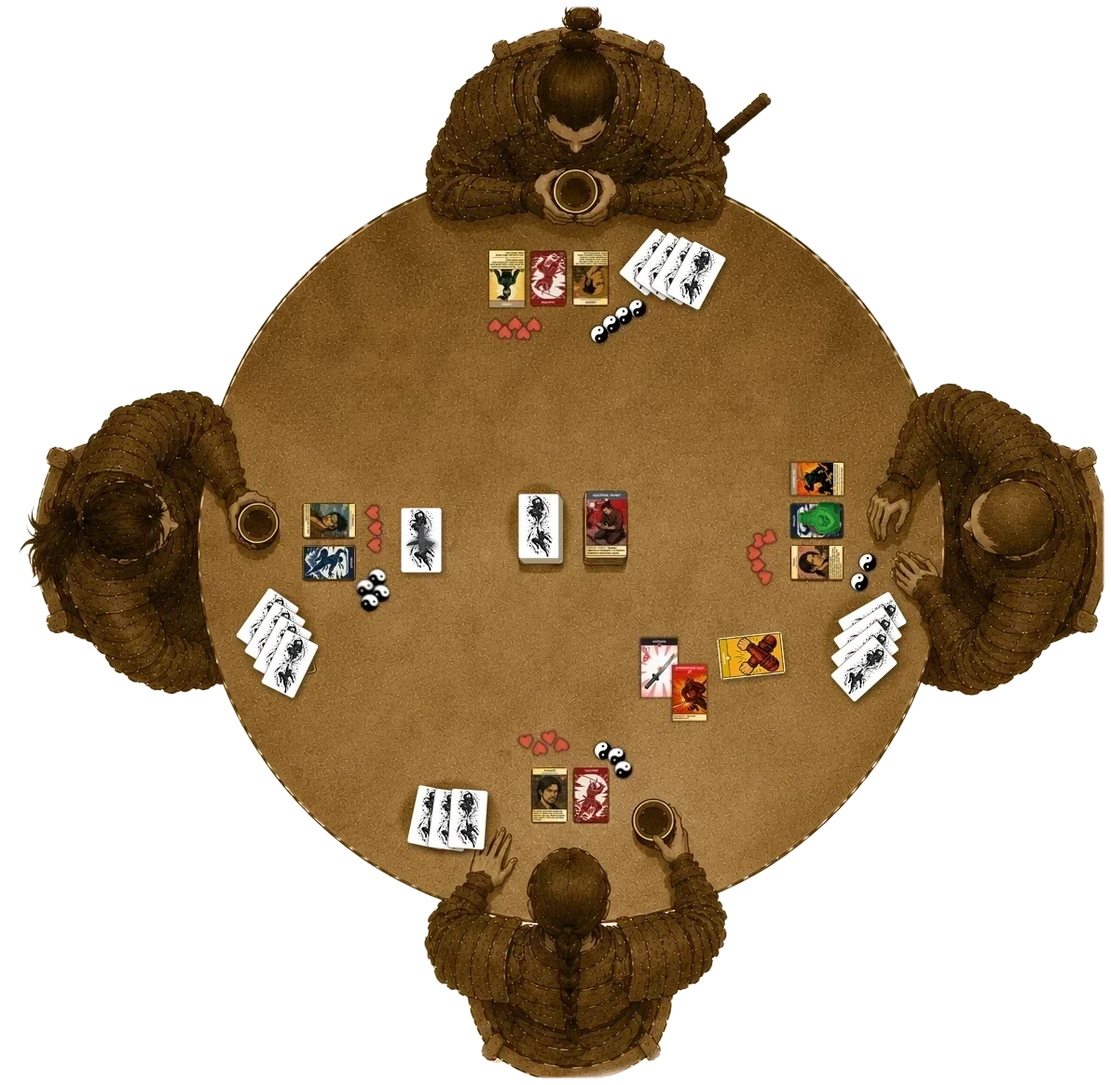
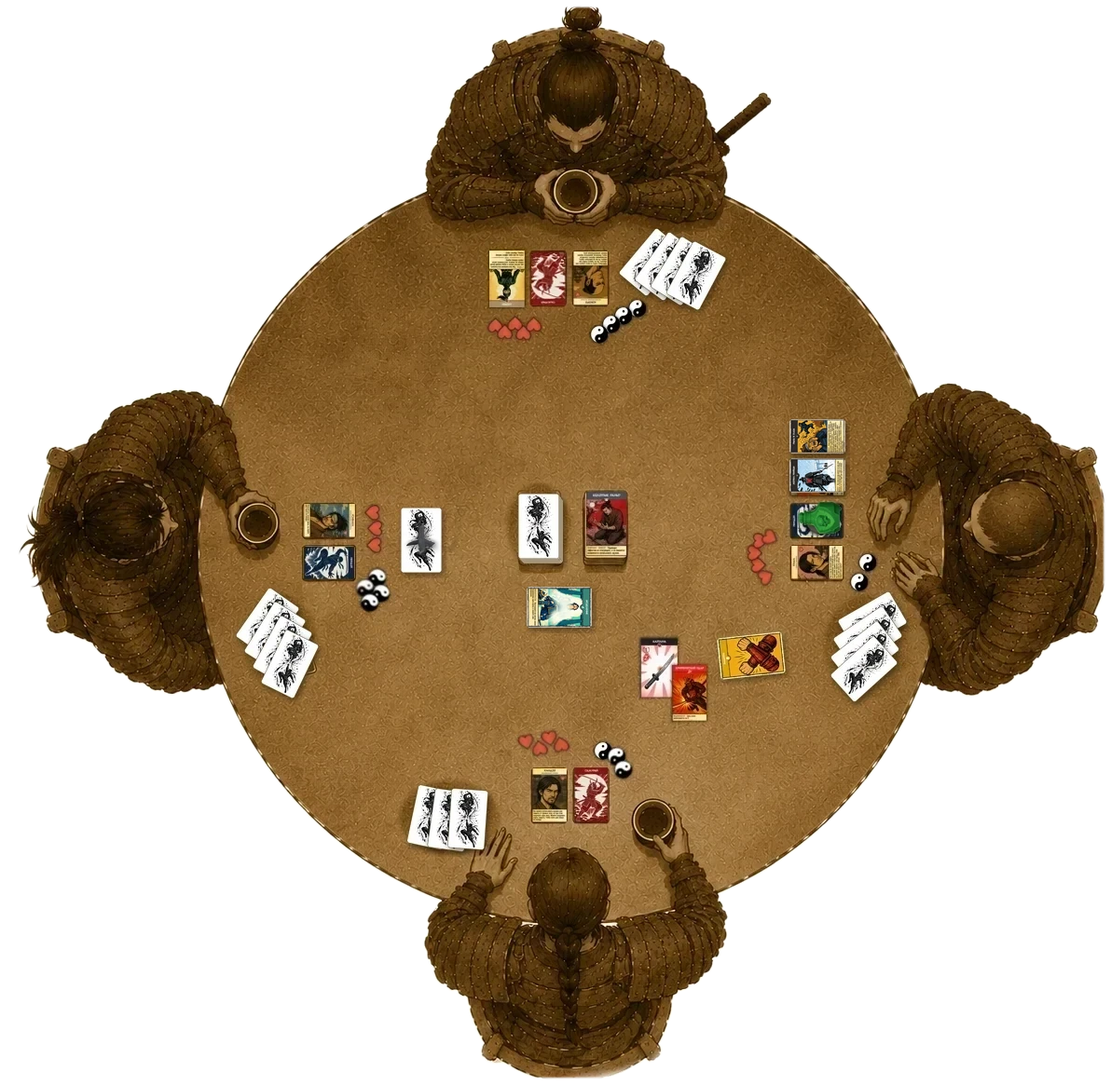
Стол: эффекты «Метка убийцы» и «Пыль в глаза», вмешательство союзника «Исцеление» с подписью; фигурки глав одной ширины 16 мм, знамя опущено; «Эффекты»: при смерти сбрасываются

Changed region(s): [[0.7139, 0.3708, 0.776, 0.4635], [0.4656, 0.5253, 0.5587, 0.5871]]

diff --git a/rules/rules.html b/rules/rules.html
@@ -134,7 +134,7 @@
           <h2 class="chapter-title">Стол<span class="kanji" aria-hidden="true">卓</span></h2>
 <p>Так выглядит стол в середине партии на четверых: у каждого игрока перед собой своя зона, посреди стола — общие стопки. Игроки сидят через одного, поэтому напротив — союзник, а по бокам — противники.</p>
 <figure class="table-figure">
-        <div class="table-pic"><img src="media/table.webp" alt="" width="1192" height="1165"><svg class="table-overlay" viewBox="0 0 1192 1165" xmlns="http://www.w3.org/2000/svg" aria-hidden="true"><defs><marker id="tf-arrow" viewBox="0 0 10 10" refX="9" refY="5" markerWidth="5" markerHeight="5" orient="auto-start-reverse"><path d="M0,0 L10,5 L0,10 z"/></marker><marker id="tf-arrow-big" viewBox="0 0 10 10" refX="8" refY="5" markerWidth="4" markerHeight="4" orient="auto-start-reverse"><path d="M0,0 L10,5 L0,10 z"/></marker></defs><path class="tf-flow" d="M 790 1125 C 930 1100 1020 950 1005 775"/><g class="tf-lines"><line x1="480" y1="300" x2="515" y2="300"/><line x1="598" y1="402" x2="593" y2="335"/><line x1="818" y1="357" x2="760" y2="315"/><line x1="471" y1="622" x2="458" y2="612"/><line x1="442" y1="468" x2="365" y2="532"/><line x1="521" y1="523" x2="560" y2="565"/><line x1="692" y1="513" x2="672" y2="530"/><line x1="815" y1="463" x2="855" y2="500"/><line x1="827" y1="545" x2="862" y2="552"/><line x1="813" y1="739" x2="812" y2="732"/><line x1="636" y1="715" x2="688" y2="712"/><line x1="476" y1="793" x2="565" y2="800"/><line x1="704" y1="812" x2="683" y2="812"/></g><g class="tf-labels"><g transform="translate(376,277)"><rect width="104" height="46" rx="8"/><text class="tf-txt" x="52.0" y="24.0">Стойка</text></g><g transform="translate(523,402)"><rect width="154" height="46" rx="8"/><text class="tf-txt" x="77.0" y="24.0">Карта роли</text></g><g transform="translate(810,357)"><rect width="79" height="46" rx="8"/><text class="tf-txt" x="39.5" y="24.0">Рука</text></g><g transform="translate(442,622)"><rect width="116" height="46" rx="8"/><text class="tf-txt" x="58.0" y="24.0">Ловушка</text></g><g transform="translate(406,422)"><rect width="129" height="46" rx="8"/><text class="tf-txt" x="64.5" y="24.0">Персонаж</text></g><g transform="translate(448,477)"><rect width="104" height="46" rx="8"/><text class="tf-txt" x="52.0" y="24.0">Колода</text></g><g transform="translate(674,467)"><rect width="92" height="46" rx="8"/><text class="tf-txt" x="46.0" y="24.0">Сброс</text></g><g transform="translate(732,417)"><rect width="116" height="46" rx="8"/><text class="tf-txt" x="58.0" y="24.0">Эффекты</text></g><g transform="translate(773,517)"><rect width="54" height="46" rx="8"/><text class="tf-txt" x="27.0" y="24.0">Яд</text></g><g transform="translate(763,739)"><rect width="104" height="46" rx="8"/><text class="tf-txt" x="52.0" y="24.0">Защита</text></g><g transform="translate(444,682)"><rect width="191" height="76" rx="8"/><text class="tf-txt" x="95.5" y="24.0">Атака: оружие</text><text class="tf-txt" x="95.5" y="54.0">+ модификатор</text></g><g transform="translate(384,767)"><rect width="92" height="46" rx="8"/><text class="tf-txt" x="46.0" y="24.0">Жизни</text></g><g transform="translate(704,789)"><rect width="191" height="46" rx="8"/><text class="tf-txt" x="95.5" y="24.0">Победные очки</text></g><g transform="translate(1027,937)"><rect width="116" height="46" rx="8"/><text class="tf-txt" x="58.0" y="24.0">Атакует</text></g></g><g class="tf-tags"><g transform="translate(802,127)"><rect width="116" height="46" rx="23"/><text x="58.0" y="24.0">Самурай</text></g><g transform="translate(1028,372)"><rect width="104" height="46" rx="23"/><text x="52.0" y="24.0">Ниндзя</text></g><g transform="translate(702,1037)"><rect width="116" height="46" rx="23"/><text x="58.0" y="24.0">Самурай</text></g><g transform="translate(88,377)"><rect width="104" height="46" rx="23"/><text x="52.0" y="24.0">Ниндзя</text></g></g></svg></div>
+        <div class="table-pic"><img src="media/table.webp" alt="" width="1192" height="1165"><svg class="table-overlay" viewBox="0 0 1192 1165" xmlns="http://www.w3.org/2000/svg" aria-hidden="true"><defs><marker id="tf-arrow" viewBox="0 0 10 10" refX="9" refY="5" markerWidth="5" markerHeight="5" orient="auto-start-reverse"><path d="M0,0 L10,5 L0,10 z"/></marker><marker id="tf-arrow-big" viewBox="0 0 10 10" refX="8" refY="5" markerWidth="4" markerHeight="4" orient="auto-start-reverse"><path d="M0,0 L10,5 L0,10 z"/></marker></defs><path class="tf-flow" d="M 790 1125 C 930 1100 1020 950 1005 775"/><g class="tf-lines"><line x1="480" y1="300" x2="515" y2="300"/><line x1="598" y1="402" x2="593" y2="335"/><line x1="818" y1="357" x2="760" y2="315"/><line x1="471" y1="622" x2="458" y2="612"/><line x1="442" y1="468" x2="365" y2="532"/><line x1="521" y1="523" x2="560" y2="565"/><line x1="692" y1="513" x2="672" y2="530"/><line x1="837" y1="453" x2="856" y2="462"/><line x1="652" y1="649" x2="637" y2="650"/><line x1="827" y1="545" x2="862" y2="552"/><line x1="813" y1="739" x2="812" y2="732"/><line x1="636" y1="717" x2="688" y2="714"/><line x1="476" y1="793" x2="565" y2="800"/><line x1="704" y1="812" x2="683" y2="812"/></g><g class="tf-labels"><g transform="translate(376,277)"><rect width="104" height="46" rx="8"/><text class="tf-txt" x="52.0" y="24.0">Стойка</text></g><g transform="translate(523,402)"><rect width="154" height="46" rx="8"/><text class="tf-txt" x="77.0" y="24.0">Карта роли</text></g><g transform="translate(810,357)"><rect width="79" height="46" rx="8"/><text class="tf-txt" x="39.5" y="24.0">Рука</text></g><g transform="translate(442,622)"><rect width="116" height="46" rx="8"/><text class="tf-txt" x="58.0" y="24.0">Ловушка</text></g><g transform="translate(406,422)"><rect width="129" height="46" rx="8"/><text class="tf-txt" x="64.5" y="24.0">Персонаж</text></g><g transform="translate(448,477)"><rect width="104" height="46" rx="8"/><text class="tf-txt" x="52.0" y="24.0">Колода</text></g><g transform="translate(674,467)"><rect width="92" height="46" rx="8"/><text class="tf-txt" x="46.0" y="24.0">Сброс</text></g><g transform="translate(732,407)"><rect width="116" height="46" rx="8"/><text class="tf-txt" x="58.0" y="24.0">Эффекты</text></g><g transform="translate(652,604)"><rect width="191" height="76" rx="8"/><text class="tf-txt" x="95.5" y="24.0">Вмешательство</text><text class="tf-txt" x="95.5" y="54.0">союзника</text></g><g transform="translate(773,517)"><rect width="54" height="46" rx="8"/><text class="tf-txt" x="27.0" y="24.0">Яд</text></g><g transform="translate(763,739)"><rect width="104" height="46" rx="8"/><text class="tf-txt" x="52.0" y="24.0">Защита</text></g><g transform="translate(444,684)"><rect width="191" height="76" rx="8"/><text class="tf-txt" x="95.5" y="24.0">Атака: оружие</text><text class="tf-txt" x="95.5" y="54.0">+ модификатор</text></g><g transform="translate(384,767)"><rect width="92" height="46" rx="8"/><text class="tf-txt" x="46.0" y="24.0">Жизни</text></g><g transform="translate(704,789)"><rect width="191" height="46" rx="8"/><text class="tf-txt" x="95.5" y="24.0">Победные очки</text></g><g transform="translate(1027,937)"><rect width="116" height="46" rx="8"/><text class="tf-txt" x="58.0" y="24.0">Атакует</text></g></g><g class="tf-tags"><g transform="translate(802,127)"><rect width="116" height="46" rx="23"/><text x="58.0" y="24.0">Самурай</text></g><g transform="translate(1028,372)"><rect width="104" height="46" rx="23"/><text x="52.0" y="24.0">Ниндзя</text></g><g transform="translate(702,1037)"><rect width="116" height="46" rx="23"/><text x="58.0" y="24.0">Самурай</text></g><g transform="translate(88,377)"><rect width="104" height="46" rx="23"/><text x="52.0" y="24.0">Ниндзя</text></g></g></svg></div>
         <figcaption>Стол на четверых: самурай — ниндзя — самурай — ниндзя.</figcaption>
       </figure>
 <aside class="note">За большим столом — на восьмерых — колоду и сброс удобно разделить на две стопки и поставить с разных сторон, чтобы каждому было легко дотянуться: колода перетасована, а порядок карт в сбросе не важен.</aside>
@@ -216,9 +216,9 @@
         </aside>
 <p>В свой ход игрок может выставить перед собой одну ловушку: карта кладётся рубашкой вверх, сверху ставится фигурка ловушки <img class="mk fig-inline trap" src="media/fig/trap.webp" alt="">. В свой ход активную ловушку можно менять на другую из руки, забирая прежнюю обратно.</p>
 <p>При атаке по вам ловушка срабатывает всегда, если вы не защищаетесь, — кроме атак метательным оружием: они ловушку не активируют. Если от неметательной атаки вы защищаетесь, срабатывать ловушке или нет — решаете вы. Карты просветления переворачивают ловушку картинкой вверх, фигурка остаётся сверху.</p>
-<div class="fig-row"><div class="fig-text" style="padding-right:24mm">
+<div class="fig-row"><div class="fig-text" style="padding-right:23mm">
 <aside class="note">Если при просветлении, воровстве или активации под фигуркой окажется не карта ловушки, игрок сразу умирает, отдав победное очко инициатору. Ловушка срабатывает, даже если атака летальна.</aside>
-</div><img class="chapter-fig" src="media/fig/ink/trap-fig.webp" style="width:17mm;right:4mm;bottom:0mm" alt=""></div>
+</div><img class="chapter-fig" src="media/fig/ink/trap-fig.webp" style="width:16mm;right:4mm;bottom:0mm" alt=""></div>
         </div>
       </section>
       <section class="chapter" id="stances" style="--bg:url(media/bg/stances.webp)">
@@ -239,7 +239,7 @@
         </aside>
 <p>Эффекты — карты, которые накладываются на любого живого игрока и действуют до его смерти; чаще всего они вредны. Карта эффекта кладётся в открытую справа от карты персонажа. Эффектов может быть сколько угодно, но не два одноимённых.</p>
 <p>Эффекты можно воровать, перемещать и снимать особыми картами — палочками благовоний.</p>
-<aside class="note">При смерти игрок теряет все эффекты и сбрасывает их карты.</aside>
+<aside class="note">При смерти игрок сбрасывает все эффекты.</aside>
         </div>
       </section>
       </div>
@@ -254,7 +254,7 @@
           <div class="side-cards fan n2"><div class="card-embed" style="--k:-0.5;--i:0"><img src="media/cards/116.webp" alt=""></div><div class="card-embed" style="--k:0.5;--i:1"><img src="media/cards/64.webp" alt=""></div></div>
         </aside>
 <p>В игре присутствует возможность отравлять игроков ядом путём совершения отравленных атак оружием либо в результате действия других карт. Карты, обладающие эффектом отравления ядом, помечены специальным значком. Игрок, отравленный ядом, помечается фигуркой яда <img class="mk fig-inline poison" src="media/fig/poison.webp" alt=""> поверх своей карты роли. Яд не тупит клинок: на силу атаки отравленного он не влияет. Снять отравление можно особыми картами; при смерти оно пропадает само.</p>
-<div class="fig-row"><div class="fig-text" style="padding-right:28mm">
+<div class="fig-row"><div class="fig-text" style="padding-right:22mm">
 <div class="order-list">
         <h4>Два недуга отравленного</h4>
         <ol>
@@ -262,7 +262,7 @@
           <li>Отравленная атака или отравленное действие по уже отравленному игроку наносит на одну рану больше.</li>
         </ol>
       </div>
-</div><img class="chapter-fig" src="media/fig/ink/poison-fig.webp" style="width:22mm;right:3mm;bottom:-6mm" alt=""></div>
+</div><img class="chapter-fig" src="media/fig/ink/poison-fig.webp" style="width:16mm;right:3mm;bottom:-6mm" alt=""></div>
         </div>
       </section>
       <section class="chapter" id="auras" style="--bg:url(media/bg/auras.webp)">
@@ -272,10 +272,10 @@
           <div class="side-cards fan n2"><div class="card-embed" style="--k:-0.5;--i:0"><img src="media/cards/1209.webp" alt=""></div><div class="card-embed" style="--k:0.5;--i:1"><img src="media/cards/1206.webp" alt=""></div></div>
         </aside>
 <p>Командные ауры — мощные карты, меняющие правила в пользу команды того, кто их сыграл. Эффект ауры действует на всех за столом — и на союзников, и на соперников, — поэтому за активными аурами надо следить и пересчитывать под них свои ходы.</p>
-<div class="fig-row"><div class="fig-text" style="padding-right:16mm">
+<div class="fig-row"><div class="fig-text" style="padding-right:19mm">
 <p>Ауру играет любой игрок в свой ход: карта кладётся перед персонажем в открытую, сверху ставится фигурка знамени <img class="mk fig-inline" src="media/fig/banner.webp" alt="">. У одного игрока не больше одной ауры; новая заменяет прежнюю, и та возвращается в руку, как стойка и ловушка. Ауры разных игроков одной команды не отменяют друг друга, а складываются.</p>
 <p>Аура остаётся в игре, пока её владелец жив и не заменил её другой; при его смерти она уходит в сброс вместе с остальными его открытыми картами.</p>
-</div><img class="chapter-fig" src="media/fig/ink/banner-fig.webp" style="width:13mm;right:0mm;bottom:0mm" alt=""></div>
+</div><img class="chapter-fig" src="media/fig/ink/banner-fig.webp" style="width:16mm;right:0mm;bottom:-12mm" alt=""></div>
         </div>
       </section>
       </div>

diff --git a/rules/rules-en.html b/rules/rules-en.html
@@ -134,7 +134,7 @@
           <h2 class="chapter-title">The Table<span class="kanji" aria-hidden="true">卓</span></h2>
 <p>This is what a four-player table looks like mid-game: every player has their own area in front of them, and the shared piles sit in the middle. Seats alternate, so the player opposite is your ally and the players on either side are enemies.</p>
 <figure class="table-figure">
-        <div class="table-pic"><img src="media/table.webp" alt="" width="1192" height="1165"><svg class="table-overlay" viewBox="0 0 1192 1165" xmlns="http://www.w3.org/2000/svg" aria-hidden="true"><defs><marker id="tf-arrow" viewBox="0 0 10 10" refX="9" refY="5" markerWidth="5" markerHeight="5" orient="auto-start-reverse"><path d="M0,0 L10,5 L0,10 z"/></marker><marker id="tf-arrow-big" viewBox="0 0 10 10" refX="8" refY="5" markerWidth="4" markerHeight="4" orient="auto-start-reverse"><path d="M0,0 L10,5 L0,10 z"/></marker></defs><path class="tf-flow" d="M 790 1125 C 930 1100 1020 950 1005 775"/><g class="tf-lines"><line x1="480" y1="300" x2="515" y2="300"/><line x1="598" y1="402" x2="593" y2="335"/><line x1="818" y1="357" x2="760" y2="315"/><line x1="471" y1="622" x2="458" y2="612"/><line x1="442" y1="468" x2="365" y2="532"/><line x1="521" y1="523" x2="560" y2="565"/><line x1="692" y1="513" x2="672" y2="530"/><line x1="815" y1="463" x2="855" y2="500"/><line x1="852" y1="550" x2="862" y2="552"/><line x1="813" y1="739" x2="812" y2="732"/><line x1="642" y1="715" x2="688" y2="712"/><line x1="470" y1="793" x2="565" y2="800"/><line x1="698" y1="812" x2="683" y2="812"/></g><g class="tf-labels"><g transform="translate(376,277)"><rect width="104" height="46" rx="8"/><text class="tf-txt" x="52.0" y="24.0">Stance</text></g><g transform="translate(530,402)"><rect width="141" height="46" rx="8"/><text class="tf-txt" x="70.5" y="24.0">Role card</text></g><g transform="translate(810,357)"><rect width="79" height="46" rx="8"/><text class="tf-txt" x="39.5" y="24.0">Hand</text></g><g transform="translate(460,622)"><rect width="79" height="46" rx="8"/><text class="tf-txt" x="39.5" y="24.0">Trap</text></g><g transform="translate(400,422)"><rect width="141" height="46" rx="8"/><text class="tf-txt" x="70.5" y="24.0">Character</text></g><g transform="translate(460,477)"><rect width="79" height="46" rx="8"/><text class="tf-txt" x="39.5" y="24.0">Deck</text></g><g transform="translate(662,467)"><rect width="116" height="46" rx="8"/><text class="tf-txt" x="58.0" y="24.0">Discard</text></g><g transform="translate(732,417)"><rect width="116" height="46" rx="8"/><text class="tf-txt" x="58.0" y="24.0">Effects</text></g><g transform="translate(748,517)"><rect width="104" height="46" rx="8"/><text class="tf-txt" x="52.0" y="24.0">Poison</text></g><g transform="translate(757,739)"><rect width="116" height="46" rx="8"/><text class="tf-txt" x="58.0" y="24.0">Defense</text></g><g transform="translate(438,682)"><rect width="203" height="76" rx="8"/><text class="tf-txt" x="101.5" y="24.0">Attack: weapon</text><text class="tf-txt" x="101.5" y="54.0">+ modifier</text></g><g transform="translate(390,767)"><rect width="79" height="46" rx="8"/><text class="tf-txt" x="39.5" y="24.0">Life</text></g><g transform="translate(698,789)"><rect width="203" height="46" rx="8"/><text class="tf-txt" x="101.5" y="24.0">Victory points</text></g><g transform="translate(1027,937)"><rect width="116" height="46" rx="8"/><text class="tf-txt" x="58.0" y="24.0">Attacks</text></g></g><g class="tf-tags"><g transform="translate(802,127)"><rect width="116" height="46" rx="23"/><text x="58.0" y="24.0">Samurai</text></g><g transform="translate(1034,372)"><rect width="92" height="46" rx="23"/><text x="46.0" y="24.0">Ninja</text></g><g transform="translate(702,1037)"><rect width="116" height="46" rx="23"/><text x="58.0" y="24.0">Samurai</text></g><g transform="translate(94,377)"><rect width="92" height="46" rx="23"/><text x="46.0" y="24.0">Ninja</text></g></g></svg></div>
+        <div class="table-pic"><img src="media/table.webp" alt="" width="1192" height="1165"><svg class="table-overlay" viewBox="0 0 1192 1165" xmlns="http://www.w3.org/2000/svg" aria-hidden="true"><defs><marker id="tf-arrow" viewBox="0 0 10 10" refX="9" refY="5" markerWidth="5" markerHeight="5" orient="auto-start-reverse"><path d="M0,0 L10,5 L0,10 z"/></marker><marker id="tf-arrow-big" viewBox="0 0 10 10" refX="8" refY="5" markerWidth="4" markerHeight="4" orient="auto-start-reverse"><path d="M0,0 L10,5 L0,10 z"/></marker></defs><path class="tf-flow" d="M 790 1125 C 930 1100 1020 950 1005 775"/><g class="tf-lines"><line x1="480" y1="300" x2="515" y2="300"/><line x1="598" y1="402" x2="593" y2="335"/><line x1="818" y1="357" x2="760" y2="315"/><line x1="471" y1="622" x2="458" y2="612"/><line x1="442" y1="468" x2="365" y2="532"/><line x1="521" y1="523" x2="560" y2="565"/><line x1="692" y1="513" x2="672" y2="530"/><line x1="837" y1="453" x2="856" y2="462"/><line x1="658" y1="648" x2="637" y2="650"/><line x1="852" y1="550" x2="862" y2="552"/><line x1="813" y1="739" x2="812" y2="732"/><line x1="642" y1="717" x2="688" y2="714"/><line x1="470" y1="793" x2="565" y2="800"/><line x1="698" y1="812" x2="683" y2="812"/></g><g class="tf-labels"><g transform="translate(376,277)"><rect width="104" height="46" rx="8"/><text class="tf-txt" x="52.0" y="24.0">Stance</text></g><g transform="translate(530,402)"><rect width="141" height="46" rx="8"/><text class="tf-txt" x="70.5" y="24.0">Role card</text></g><g transform="translate(810,357)"><rect width="79" height="46" rx="8"/><text class="tf-txt" x="39.5" y="24.0">Hand</text></g><g transform="translate(460,622)"><rect width="79" height="46" rx="8"/><text class="tf-txt" x="39.5" y="24.0">Trap</text></g><g transform="translate(400,422)"><rect width="141" height="46" rx="8"/><text class="tf-txt" x="70.5" y="24.0">Character</text></g><g transform="translate(460,477)"><rect width="79" height="46" rx="8"/><text class="tf-txt" x="39.5" y="24.0">Deck</text></g><g transform="translate(662,467)"><rect width="116" height="46" rx="8"/><text class="tf-txt" x="58.0" y="24.0">Discard</text></g><g transform="translate(732,407)"><rect width="116" height="46" rx="8"/><text class="tf-txt" x="58.0" y="24.0">Effects</text></g><g transform="translate(658,604)"><rect width="179" height="76" rx="8"/><text class="tf-txt" x="89.5" y="24.0">Ally's</text><text class="tf-txt" x="89.5" y="54.0">intervention</text></g><g transform="translate(748,517)"><rect width="104" height="46" rx="8"/><text class="tf-txt" x="52.0" y="24.0">Poison</text></g><g transform="translate(757,739)"><rect width="116" height="46" rx="8"/><text class="tf-txt" x="58.0" y="24.0">Defense</text></g><g transform="translate(438,684)"><rect width="203" height="76" rx="8"/><text class="tf-txt" x="101.5" y="24.0">Attack: weapon</text><text class="tf-txt" x="101.5" y="54.0">+ modifier</text></g><g transform="translate(390,767)"><rect width="79" height="46" rx="8"/><text class="tf-txt" x="39.5" y="24.0">Life</text></g><g transform="translate(698,789)"><rect width="203" height="46" rx="8"/><text class="tf-txt" x="101.5" y="24.0">Victory points</text></g><g transform="translate(1027,937)"><rect width="116" height="46" rx="8"/><text class="tf-txt" x="58.0" y="24.0">Attacks</text></g></g><g class="tf-tags"><g transform="translate(802,127)"><rect width="116" height="46" rx="23"/><text x="58.0" y="24.0">Samurai</text></g><g transform="translate(1034,372)"><rect width="92" height="46" rx="23"/><text x="46.0" y="24.0">Ninja</text></g><g transform="translate(702,1037)"><rect width="116" height="46" rx="23"/><text x="58.0" y="24.0">Samurai</text></g><g transform="translate(94,377)"><rect width="92" height="46" rx="23"/><text x="46.0" y="24.0">Ninja</text></g></g></svg></div>
         <figcaption>A table for four: samurai — ninja — samurai — ninja.</figcaption>
       </figure>
 <aside class="note">At a big table — eight players — it is convenient to split the deck and the discard pile in two and place them on opposite sides so that everyone can reach: the deck is shuffled, and the order of cards in the discard pile does not matter.</aside>
@@ -216,9 +216,9 @@
         </aside>
 <p>On your turn you may set one Trap in front of yourself: the card is placed face down with the trap figurine <img class="mk fig-inline trap" src="media/fig/trap.webp" alt=""> on top of it. On your turn the active Trap may be swapped for another from your hand, taking the old one back.</p>
 <p>When you are attacked, the Trap always triggers if you do not defend — except against thrown weapons, which never trigger a Trap. If you defend against a non-thrown attack, whether the Trap triggers is up to you. Revealing cards turn the Trap face up; the figurine stays on it.</p>
-<div class="fig-row"><div class="fig-text" style="padding-right:24mm">
+<div class="fig-row"><div class="fig-text" style="padding-right:23mm">
 <aside class="note">If revealing, stealing or triggering shows that the card under the figurine is not a Trap card, that player dies at once and hands a victory point to the initiator. A Trap resolves even if the attack was lethal.</aside>
-</div><img class="chapter-fig" src="media/fig/ink/trap-fig.webp" style="width:17mm;right:4mm;bottom:0mm" alt=""></div>
+</div><img class="chapter-fig" src="media/fig/ink/trap-fig.webp" style="width:16mm;right:4mm;bottom:0mm" alt=""></div>
         </div>
       </section>
       <section class="chapter" id="stances" style="--bg:url(media/bg/stances.webp)">
@@ -239,7 +239,7 @@
         </aside>
 <p>Effects are cards placed on any living player that last until that player dies; most of them are harmful. An Effect card is placed face up to the right of the character card. A player may hold any number of Effects, but not two of the same name.</p>
 <p>Effects can be stolen, moved or removed with special incense-stick cards.</p>
-<aside class="note">On death a player loses every Effect and discards those cards.</aside>
+<aside class="note">On death a player discards all their Effects.</aside>
         </div>
       </section>
       </div>
@@ -254,7 +254,7 @@
           <div class="side-cards fan n2"><div class="card-embed" style="--k:-0.5;--i:0"><img src="media/cards/116-en.webp" alt=""></div><div class="card-embed" style="--k:0.5;--i:1"><img src="media/cards/64-en.webp" alt=""></div></div>
         </aside>
 <p>Players can be poisoned, either by making poisoned weapon attacks or through the action of other cards. Cards that carry poison are marked with a special icon. A poisoned player is marked with the poison figurine <img class="mk fig-inline poison" src="media/fig/poison.webp" alt=""> placed on top of their role card. Poison does not blunt the blade: it has no effect on the poisoned player's attack power. Poison can be cured with special cards, and it wears off by itself on death.</p>
-<div class="fig-row"><div class="fig-text" style="padding-right:28mm">
+<div class="fig-row"><div class="fig-text" style="padding-right:22mm">
 <div class="order-list">
         <h4>The two afflictions of the poisoned</h4>
         <ol>
@@ -262,7 +262,7 @@
           <li>A poisoned attack or poisoned action against an already poisoned player deals one extra wound.</li>
         </ol>
       </div>
-</div><img class="chapter-fig" src="media/fig/ink/poison-fig.webp" style="width:22mm;right:3mm;bottom:-6mm" alt=""></div>
+</div><img class="chapter-fig" src="media/fig/ink/poison-fig.webp" style="width:16mm;right:3mm;bottom:-6mm" alt=""></div>
         </div>
       </section>
       <section class="chapter" id="auras" style="--bg:url(media/bg/auras.webp)">
@@ -272,10 +272,10 @@
           <div class="side-cards fan n2"><div class="card-embed" style="--k:-0.5;--i:0"><img src="media/cards/1209-en.webp" alt=""></div><div class="card-embed" style="--k:0.5;--i:1"><img src="media/cards/1206-en.webp" alt=""></div></div>
         </aside>
 <p>Team Auras are powerful cards that bend the rules in favour of the team that played them. An Aura's effect reaches everyone at the table — allies and opponents alike — so active Auras have to be watched, and your own turns recalculated around them.</p>
-<div class="fig-row"><div class="fig-text" style="padding-right:16mm">
+<div class="fig-row"><div class="fig-text" style="padding-right:19mm">
 <p>Any player may play an Aura on their turn: the card goes face up in front of the character, with the banner figurine <img class="mk fig-inline" src="media/fig/banner.webp" alt=""> on top. A player holds one Aura at most; a new one replaces the old, which returns to hand like a Stance or a Trap. Auras of different players on the same team do not cancel one another — they stack.</p>
 <p>An Aura stays in play as long as its owner is alive and has not replaced it; when the owner dies it is discarded with the rest of their face-up cards.</p>
-</div><img class="chapter-fig" src="media/fig/ink/banner-fig.webp" style="width:13mm;right:0mm;bottom:0mm" alt=""></div>
+</div><img class="chapter-fig" src="media/fig/ink/banner-fig.webp" style="width:16mm;right:0mm;bottom:-12mm" alt=""></div>
         </div>
       </section>
       </div>

diff --git a/rules/content-ru.html b/rules/content-ru.html
@@ -99,7 +99,7 @@
       <h2 class="chapter-title" data-mark="術">Эффекты</h2>
       <p>Эффекты — карты, которые накладываются на любого живого игрока и действуют до его смерти; чаще всего они вредны. Карта эффекта кладётся в открытую справа от карты персонажа. Эффектов может быть сколько угодно, но не два одноимённых.</p>
       <p>Эффекты можно воровать, перемещать и снимать особыми картами — палочками благовоний.</p>
-      <aside class="note">При смерти игрок теряет все эффекты и сбрасывает их карты.</aside>
+      <aside class="note">При смерти игрок сбрасывает все эффекты.</aside>
     </section>
 
 <section class="chapter" id="poison">

diff --git a/rules/content-en.html b/rules/content-en.html
@@ -97,7 +97,7 @@
       <h2 class="chapter-title" data-mark="術">Effects</h2>
       <p>Effects are cards placed on any living player that last until that player dies; most of them are harmful. An Effect card is placed face up to the right of the character card. A player may hold any number of Effects, but not two of the same name.</p>
       <p>Effects can be stolen, moved or removed with special incense-stick cards.</p>
-      <aside class="note">On death a player loses every Effect and discards those cards.</aside>
+      <aside class="note">On death a player discards all their Effects.</aside>
     </section>
 
 <section class="chapter" id="poison">

diff --git a/tools/compose-table-effects.py b/tools/compose-table-effects.py
@@ -1,0 +1,48 @@
+# -*- coding: utf-8 -*-
+"""Стол: у правого игрока вместо эффекта «Мастер боя» из фото — «Метка убийцы», над ней второй эффект
+«Пыль в глаза» (столбик эффектов растёт от персонажа «вправо» с точки зрения игрока — вверх картинки);
+плюс пример вмешательства союзника: левый ниндзя кладёт «Исцеление» к центру стола, в сторону
+атакуемого правого ниндзя. Карты повёрнуты как остальные карты своего игрока (верх — к центру стола).
+Аргументы: <src.webp> <out.webp>. Хелперы — как в compose-table-trap.py."""
+import sys, os
+from PIL import Image, ImageDraw, ImageFilter
+sys.stdout.reconfigure(encoding='utf-8')
+os.chdir(r'C:\ninja_samurai\cardboard')
+src, out = sys.argv[1:3]
+im = Image.open(src).convert('RGBA')
+S = 4
+CW, CH = 44, 70            # карта посреди стола; карты в зоне игрока на фото мельче — 37×60
+
+def down(l): return l.resize((max(1, round(l.width / S)), max(1, round(l.height / S))), Image.LANCZOS)
+def shadow(layer, blur=3, dx=2, dy=3, op=0.45):
+    a = layer.split()[3]
+    sh = Image.new('RGBA', (layer.width + 2*blur + abs(dx), layer.height + 2*blur + abs(dy)), (0, 0, 0, 0))
+    sh.paste(Image.new('RGBA', layer.size, (20, 10, 0, int(255*op))), (blur + max(dx, 0), blur + max(dy, 0)), a)
+    return sh.filter(ImageFilter.GaussianBlur(blur)), (blur, blur)
+def paste_center(base, layer, cx, cy):
+    sh, off = shadow(layer)
+    base.alpha_composite(sh, (int(round(cx - layer.width/2 - off[0])), int(round(cy - layer.height/2 - off[1]))))
+    base.alpha_composite(layer, (int(round(cx - layer.width/2)), int(round(cy - layer.height/2))))
+def card_face(webp, w=CW*S, h=CH*S, b=1*S, outline=(120, 100, 70, 255)):
+    art = Image.open(webp).convert('RGBA')
+    tw = round(art.height * (w - 2*b) / (h - 2*b))
+    if art.width > tw:
+        x0 = (art.width - tw) // 2; art = art.crop((x0, 0, x0 + tw, art.height))
+    art = art.resize((w - 2*b, h - 2*b), Image.LANCZOS)
+    card = Image.new('RGBA', (w, h), (0, 0, 0, 0))
+    m = Image.new('L', (w, h), 0); ImageDraw.Draw(m).rounded_rectangle((0, 0, w-1, h-1), 3*S, fill=255)
+    card.paste((246, 240, 228, 255), (0, 0, w, h), m)
+    card.alpha_composite(art, (b, b))
+    ImageDraw.Draw(card).rounded_rectangle((0, 0, w-1, h-1), 3*S, outline=outline, width=S//2)
+    return card
+def rot(l, deg): return l.rotate(deg, Image.BICUBIC, expand=True)
+
+# правый игрок: верх карт — влево (к центру), т.е. поворот на 90° против часовой
+E = dict(w=37*S, h=60*S)
+paste_center(im, down(rot(card_face('rules/media/cards/91.webp', **E), 90)), 877, 511)    # «Метка убийцы» — поверх «Мастера боя» с фото
+paste_center(im, down(rot(card_face('rules/media/cards/97.webp', **E), 90)), 877, 469)    # «Пыль в глаза» — следующий эффект в столбике
+# левый игрок: верх карт — вправо (к центру), поворот на 90° по часовой; вмешательство — к центру стола
+paste_center(im, down(rot(card_face('rules/media/cards/121.webp'), -90)), 600, 652)  # «Исцеление» союзника — под колодой, левее атаки
+
+im.save(out, 'WEBP', quality=90, method=6)
+print('written', out, im.size)

diff --git a/tools/build-rules-new.py b/tools/build-rules-new.py
@@ -70,12 +70,12 @@ CH = {
                        cards={0: [1, 32, 31], 10: [70, 64]}),   # меч, сюрикен, отравленное яри (два режима); у подраздела «Модификатор» (срез с блока 10) — два модификатора
  'defense':       dict(icons=[[('ic','defense')]],                      cards=[50, 48]),   # защита с эффектом и простая «Защита» — сверху, она основная
  'thrust':        dict(icons=[[('ic','thrust')]],                       cards=[90, 124]),   # «Боевой крик» и «Удар дракона» — карты с выпадом
- 'traps':         dict(icons=[[('ic','trap')]],                         cards=[43, 41], fig=('trap-fig', 17, 1, 4)),   # фигурка макибиси тушью — в углу главы, чуть левее края
+ 'traps':         dict(icons=[[('ic','trap')]],                         cards=[43, 41], fig=('trap-fig', 16, 1, 4)),   # фигурка макибиси тушью — в углу главы, чуть левее края
  'stances':       dict(icons=[[('ic','stance')]],                       cards=[60, 1166]),   # «Лучник» справа, сверху — виден целиком
  'effects':       dict(icons=[[('ic','effect')]],                       cards=[92, 91]),   # «Противоядие» внутри, «Метка убийцы» сверху
- 'poison':        dict(icons=[[('ic','poison')]],                       cards=[116, 64], fig=('poison-fig', 22, 1, 3, 6)),   # фигурка яда тушью — крупно, под картами, чуть ниже и правее списка
+ 'poison':        dict(icons=[[('ic','poison')]],                       cards=[116, 64], fig=('poison-fig', 16, 1, 3, 6)),   # фигурка яда тушью — крупно, под картами, чуть ниже и правее списка
  'interventions': dict(layout='fan', icons=[[('ic','intervention')]], cards=[124, 121]),   # веером, «Удар дракона» слева
- 'auras':         dict(icons=[[('ic','aura')]],                        cards=[1209, 1206], fig=('banner-fig', 13, 2)),   # «Часовой» внутри, «Дымовая завеса» сверху; фигурка знамени тушью — в углу
+ 'auras':         dict(icons=[[('ic','aura')]],                        cards=[1209, 1206], fig=('banner-fig', 16, 2, 0, 12)),   # «Часовой» внутри, «Дымовая завеса» сверху; фигурка знамени тушью — в углу, опущена на 12 мм ниже карт
  'conditional':   dict(layout='fan', icons=[[('ic','rolectx'),('ic','hpctx'),('ic','charges'),('ic','charctx')]], cards=[125, 3094, 112]),   # веером: фракция, здоровье, «Сапёр» — условие по имени (Иё)
  'order':         dict(icons=[],                                        cards=[]),
 }

diff --git a/tools/table_fig.py b/tools/table_fig.py
@@ -34,10 +34,11 @@ LABELS = [
     ('character', (470, 445), (365, 532)),    # верхняя левая четверть
     ('deck',      (500, 500), (560, 565)),    # слева-сверху от колоды
     ('discard',   (720, 490), (672, 530)),    # справа-сверху от сброса
-    ('effect',    (790, 440), (855, 500)),    # над столбиком эффектов
+    ('effect',    (790, 430), (856, 462)),    # над столбиком эффектов — к верхней карте («Пыль в глаза»)
+    ('intervention', (748, 642), (637, 650)),  # справа от карты вмешательства союзника, под сбросом
     ('poison',    (800, 540), (862, 552)),    # бутылка яда на карте роли
     ('defense',   (815, 762), (812, 732)),    # под картой защиты
-    ('attack',    (540, 720), (688, 712)),    # слева от выложенной атаки
+    ('attack',    (540, 722), (688, 714)),    # слева от выложенной атаки
     ('life',      (430, 790), (565, 800)),    # слева от сердец нижнего игрока
     ('vp',        (800, 812), (683, 812)),    # справа от очков нижнего игрока
 ]
@@ -54,6 +55,7 @@ TXT = {
   'hand': 'Рука', 'discard': 'Сброс', 'effect': 'Эффекты', 'life': 'Жизни',
   'vp': 'Победные очки', 'attack': 'Атака: оружие|+ модификатор',
   'poison': 'Яд', 'defense': 'Защита', 'trap': 'Ловушка', 'attacks': 'Атакует',
+  'intervention': 'Вмешательство|союзника',
   'samurai': 'Самурай', 'ninja': 'Ниндзя',
   'h4': 'Стол',
   'intro': 'Так выглядит стол в середине партии на четверых: у каждого игрока перед собой своя зона, посреди стола — общие стопки. Игроки сидят через одного, поэтому напротив — союзник, а по бокам — противники.',
@@ -78,6 +80,7 @@ TXT = {
   'hand': 'Hand', 'discard': 'Discard', 'effect': 'Effects', 'life': 'Life',
   'vp': 'Victory points', 'attack': 'Attack: weapon|+ modifier',
   'poison': 'Poison', 'defense': 'Defense', 'trap': 'Trap', 'attacks': 'Attacks',
+  'intervention': "Ally's|intervention",
   'samurai': 'Samurai', 'ninja': 'Ninja',
   'h4': 'The Table',
   'intro': 'This is what a four-player table looks like mid-game: every player has their own area in front of them, and the shared piles sit in the middle. Seats alternate, so the player opposite is your ally and the players on either side are enemies.',

diff --git a/CLAUDE.md b/CLAUDE.md
@@ -344,9 +344,11 @@ diff'у мучительно. Место дешевле времени.
   картинки — по низу последнего блока, правый край — по краю колонки.
 - **Стол во время партии** — `rules/media/table.webp` (фото стола, белый
   фон вырезан в прозрачность; бутылка яда, ловушка — рубашка портретом
-  над персонажем и ролью с фигуркой макибиси (`tools/compose-table-trap.py`)
-  — и карта защиты дорисованы поверх, исходник без них —
-  `media/obsolete/table-v1.webp`, прежние монтажи — там же `table-v2…v3`)
+  над персонажем и ролью с фигуркой макибиси (`tools/compose-table-trap.py`),
+  карта защиты, эффекты «Метка убийцы» и «Пыль в глаза» у правого игрока и
+  «Исцеление» — вмешательство союзника (`tools/compose-table-effects.py`)
+  дорисованы поверх, исходник без них — `media/obsolete/table-v1.webp`,
+  прежние монтажи — там же `table-v2…v5`)
   + SVG-слой со стрелками и подписями из
   `tools/table_fig.py`; координаты в пикселях картинки, общие для RU/EN,
   тексты подписей — в словаре `TXT` там же. Подписи стоят внутри стола,
